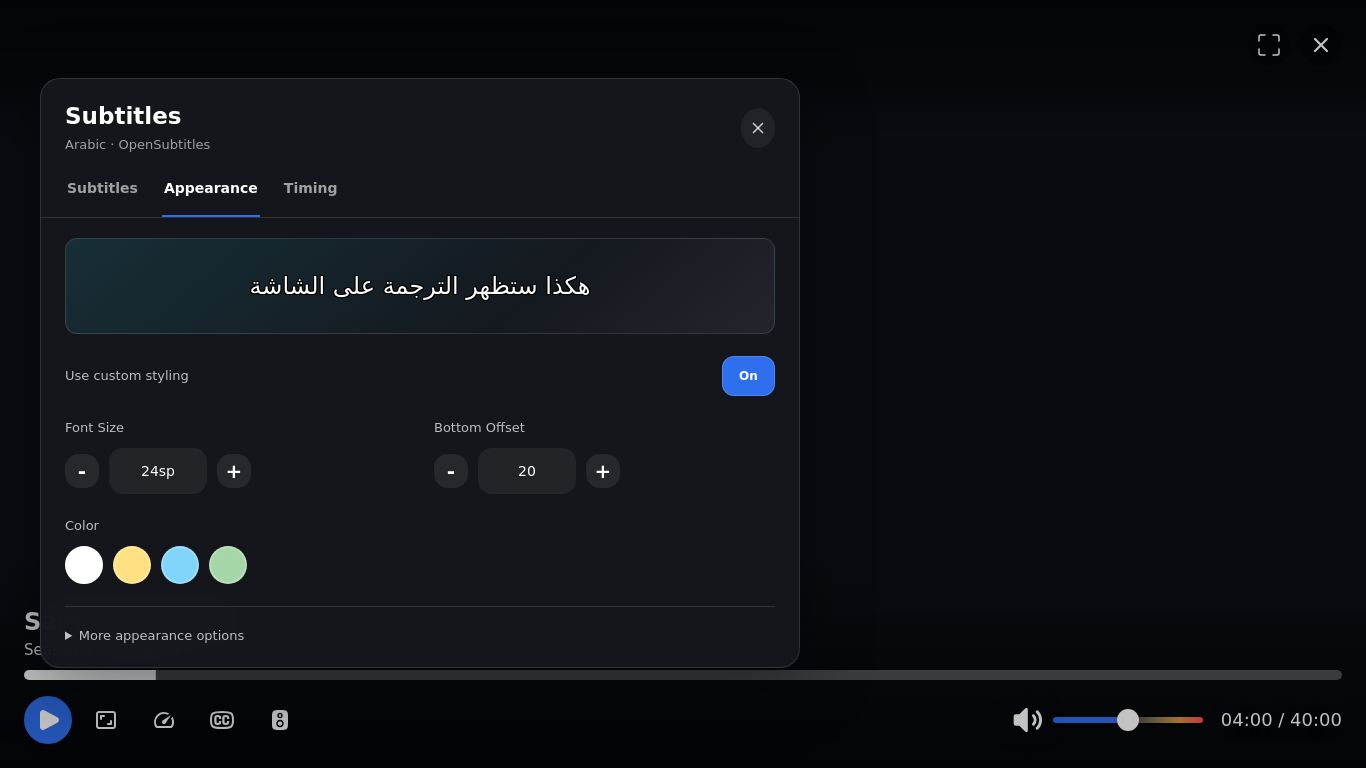
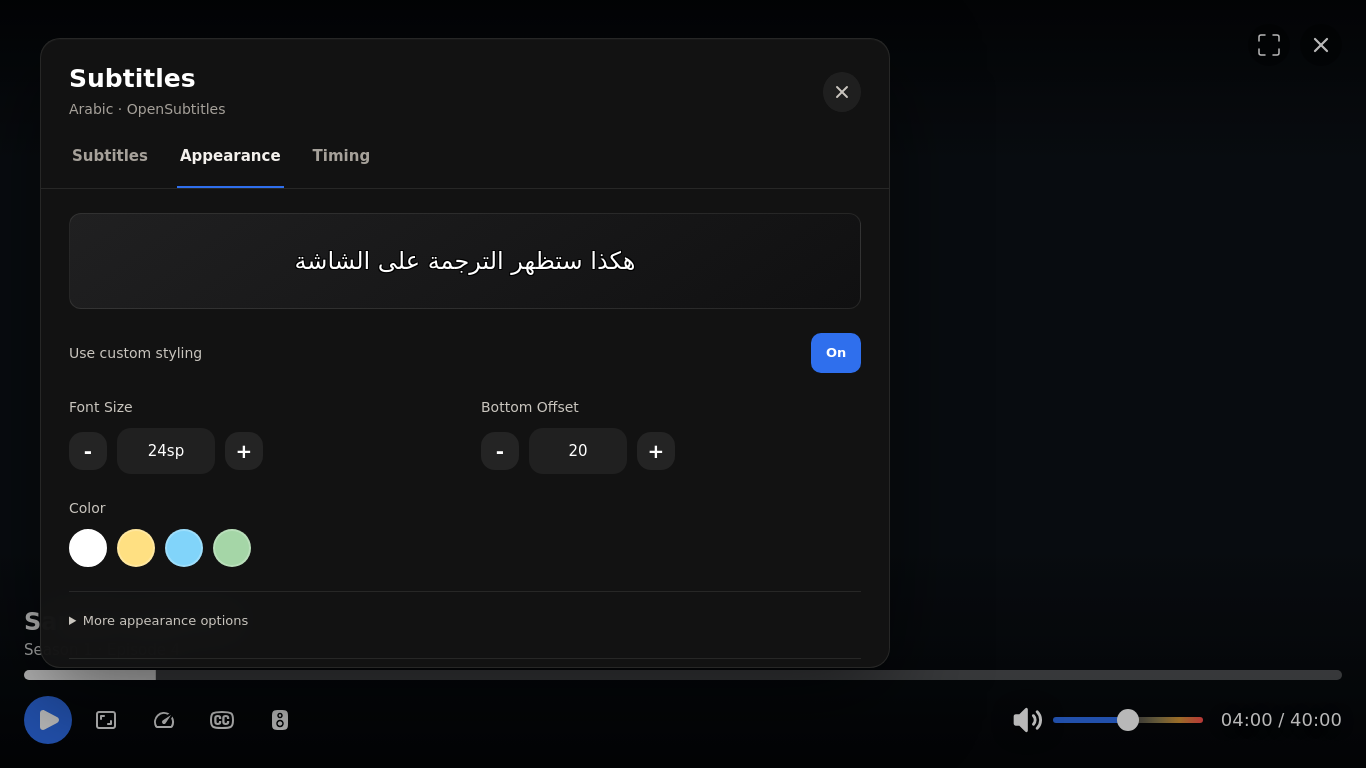
Enlarge the subtitle menu and apply Cinema dark styling

diff --git a/composeApp/src/desktopMain/resources/player-ui/controls.css b/composeApp/src/desktopMain/resources/player-ui/controls.css
@@ -2263,26 +2263,31 @@ button:disabled {
   white-space: nowrap;
 }
 
-/* Subtitle menu: selection first, with separate appearance and timing views. */
+/* Cinema dark subtitle menu, with separate appearance and timing views. */
 
 #subtitleModal {
+  --theme-text-primary: #f4f1ed;
+  --theme-text-secondary: #c9c5be;
+  --theme-text-muted: #a6a19a;
+  --theme-border-default: rgba(255, 248, 237, .09);
+  color: var(--theme-text-primary);
   padding: 24px clamp(16px, 3vw, 40px) 100px;
-  background: rgba(0, 0, 0, .24);
+  background: rgba(0, 0, 0, .28);
 }
 
 #subtitleModal .subtitle-rail-panel {
   display: flex;
   flex-direction: column;
-  width: min(760px, 100%) !important;
+  width: min(850px, 100%) !important;
   max-width: 100%;
-  height: min(590px, calc(100vh - 140px));
+  height: min(630px, calc(100vh - 136px));
   max-height: none;
   overflow: hidden;
   border: 1px solid var(--theme-border-default);
   border-radius: 20px;
-  background: color-mix(in srgb, var(--theme-surface-elevated) 96%, transparent);
-  box-shadow: 0 18px 70px rgba(0, 0, 0, .4);
-  backdrop-filter: blur(24px);
+  background: rgba(19, 19, 20, .95);
+  box-shadow: 0 28px 88px rgba(0, 0, 0, .5), inset 0 1px 0 rgba(255, 255, 255, .025);
+  backdrop-filter: blur(18px);
 }
 
 .subtitle-menu-header {
@@ -2291,7 +2296,7 @@ button:disabled {
   align-items: center;
   justify-content: space-between;
   gap: 20px;
-  padding: 22px 24px 18px;
+  padding: 24px 28px 20px;
 }
 
 .subtitle-menu-heading {
@@ -2300,8 +2305,8 @@ button:disabled {
 
 #subtitleModal .track-header {
   padding: 0;
-  font-size: 23px;
-  line-height: 30px;
+  font-size: 25px;
+  line-height: 32px;
   font-weight: 650;
 }
 
@@ -2309,42 +2314,42 @@ button:disabled {
   margin-top: 4px;
   overflow: hidden;
   color: var(--theme-text-muted);
-  font-size: 13px;
-  line-height: 20px;
+  font-size: 14px;
+  line-height: 21px;
   text-overflow: ellipsis;
   white-space: nowrap;
 }
 
 #subtitleModal .subtitle-close {
-  width: 34px;
-  height: 34px;
-  padding: 8px;
+  width: 38px;
+  height: 38px;
+  padding: 9px;
   border: 0;
   border-radius: 50%;
   background: rgba(255, 255, 255, .06);
 }
 
 .subtitle-close svg {
-  width: 18px;
-  height: 18px;
+  width: 20px;
+  height: 20px;
 }
 
 .subtitle-menu-tabs {
   display: flex;
   flex: 0 0 auto;
-  gap: 22px;
-  padding: 0 24px;
+  gap: 26px;
+  padding: 0 28px;
   border-bottom: 1px solid var(--theme-border-default);
 }
 
 .subtitle-menu-tab {
-  min-height: 44px;
-  padding: 0 2px 12px;
+  min-height: 48px;
+  padding: 0 3px 14px;
   border: 0;
   border-bottom: 2px solid transparent;
   background: transparent;
   color: var(--theme-text-muted);
-  font-size: 14px;
+  font-size: 15px;
   font-weight: 550;
   cursor: pointer;
 }
@@ -2369,30 +2374,30 @@ button:disabled {
   flex: 1 1 auto;
   width: 100%;
   min-height: 0;
-  grid-template-columns: 170px minmax(0, 1fr);
+  grid-template-columns: 184px minmax(0, 1fr);
   gap: 0;
   overflow: hidden;
 }
 
 #subtitleModal .subtitle-rail {
   gap: 0;
-  padding: 18px 12px 10px;
+  padding: 20px 14px 12px;
   overflow: hidden;
 }
 
 #subtitleModal .subtitle-language-rail {
   border-right: 1px solid var(--theme-border-default);
-  padding-left: 14px;
-  background: rgba(0, 0, 0, .08);
+  padding-left: 16px;
+  background: rgba(0, 0, 0, .12);
 }
 
 #subtitleModal .subtitle-options-rail {
-  padding-right: 16px;
+  padding-right: 20px;
 }
 
 #subtitleModal .subtitle-rail-title {
   padding: 0 10px;
-  font-size: 12px;
+  font-size: 13px;
   line-height: 22px;
   font-weight: 550;
   color: var(--theme-text-muted);
@@ -2407,12 +2412,13 @@ button:disabled {
 }
 
 .subtitle-details-toggle {
-  padding: 2px 8px;
+  min-height: 30px;
+  padding: 4px 10px;
   border: 0;
   border-radius: 5px;
   background: transparent;
   color: var(--theme-text-muted);
-  font-size: 11px;
+  font-size: 12px;
   cursor: pointer;
 }
 
@@ -2425,17 +2431,17 @@ button:disabled {
   flex: 1 1 auto;
   min-height: 0;
   max-height: none;
-  gap: 5px;
-  padding: 10px 0;
+  gap: 6px;
+  padding: 12px 0;
   overscroll-behavior: contain;
 }
 
 #subtitleModal .subtitle-language-row {
-  min-height: 42px;
-  padding: 10px;
+  min-height: 46px;
+  padding: 12px;
   border-radius: 9px;
-  font-size: 14px;
-  line-height: 20px;
+  font-size: 15px;
+  line-height: 22px;
 }
 
 #subtitleModal .subtitle-language-row.selected {
@@ -2449,18 +2455,18 @@ button:disabled {
   padding: 0;
   background: transparent;
   color: var(--theme-text-muted);
-  font-size: 11px;
-  line-height: 16px;
+  font-size: 12px;
+  line-height: 18px;
   font-weight: 400;
 }
 
 .subtitle-source-heading {
-  padding: 10px 10px 3px;
+  padding: 14px 14px 4px;
   color: var(--theme-text-muted);
-  font-size: 11px;
-  line-height: 17px;
+  font-size: 12px;
+  line-height: 18px;
   font-weight: 600;
-  letter-spacing: .05em;
+  letter-spacing: .08em;
   text-transform: uppercase;
 }
 
@@ -2469,14 +2475,15 @@ button:disabled {
 }
 
 #subtitleModal .subtitle-option-row {
-  min-height: 64px !important;
-  padding: 10px 12px !important;
+  min-height: 72px !important;
+  padding: 12px 14px !important;
   border-radius: 10px;
 }
 
 #subtitleModal .subtitle-option-row.selected {
-  border-color: color-mix(in srgb, var(--theme-accent) 35%, transparent);
+  border-color: color-mix(in srgb, var(--theme-accent) 28%, transparent);
   background: color-mix(in srgb, var(--theme-accent) 12%, transparent);
+  box-shadow: inset 3px 0 0 var(--theme-accent);
   color: var(--theme-text-primary);
   font-weight: 500;
 }
@@ -2486,8 +2493,8 @@ button:disabled {
 }
 
 #subtitleModal .subtitle-option-title {
-  font-size: 15px;
-  line-height: 21px;
+  font-size: 16px;
+  line-height: 23px;
   overflow-wrap: anywhere;
 }
 
@@ -2498,8 +2505,8 @@ button:disabled {
   border-radius: 0;
   background: transparent;
   color: var(--theme-text-muted);
-  font-size: 11px;
-  line-height: 16px;
+  font-size: 12px;
+  line-height: 18px;
 }
 
 #subtitleModal .subtitle-option-row.selected .track-check {
@@ -2507,8 +2514,8 @@ button:disabled {
 }
 
 #subtitleModal .track-check {
-  width: 19px;
-  height: 19px;
+  width: 20px;
+  height: 20px;
 }
 
 #addonSubtitleList.show-release-details .subtitle-option-metadata,
@@ -2519,15 +2526,15 @@ button:disabled {
   overflow: hidden;
   white-space: normal;
   overflow-wrap: anywhere;
-  font-size: 11px;
-  line-height: 17px;
+  font-size: 12px;
+  line-height: 18px;
   color: var(--theme-text-muted);
 }
 
 #subtitleModal .subtitle-tools-panel {
   flex: 1 1 auto;
   min-height: 0;
-  padding: 20px 24px 24px;
+  padding: 24px 28px 28px;
   overflow: auto;
   overscroll-behavior: contain;
   scrollbar-width: thin;
@@ -2542,7 +2549,7 @@ button:disabled {
 #subtitleModal .style-card {
   display: grid;
   grid-template-columns: repeat(2, minmax(0, 1fr));
-  gap: 22px 28px;
+  gap: 24px 32px;
 }
 
 #subtitleModal .style-section {
@@ -2558,25 +2565,50 @@ button:disabled {
 
 #subtitleModal .style-label {
   color: var(--theme-text-secondary);
-  font-size: 13px;
-  line-height: 20px;
+  font-size: 14px;
+  line-height: 21px;
 }
 
 #subtitleModal .style-control-row {
   gap: 8px;
 }
 
-#subtitleModal .panel-button {
-  font-size: 12px;
+#subtitleModal .panel-button:not(.subtitle-close) {
+  min-height: 40px;
+  padding: 10px 14px;
+  border: 1px solid rgba(255, 248, 237, .1);
+  border-radius: 10px;
+  background: rgba(255, 248, 237, .06);
+  color: var(--theme-text-primary);
+  font-size: 13px;
+}
+
+#subtitleModal .panel-button.primary {
+  border-color: transparent;
+  background: var(--theme-accent);
+  color: var(--theme-on-accent);
+}
+
+#subtitleModal .panel-button.primary:hover:not(:disabled) {
+  background: var(--theme-accent-strong);
+}
+
+#subtitleModal .track-row:hover:not(:disabled) {
+  background: rgba(255, 248, 237, .045);
+}
+
+#subtitleModal .subtitle-language-row.selected:hover:not(:disabled),
+#subtitleModal .subtitle-option-row.selected:hover:not(:disabled) {
+  background: color-mix(in srgb, var(--theme-accent) 17%, transparent);
 }
 
 #subtitleModal .round-step {
-  width: 34px;
-  height: 34px;
+  width: 38px;
+  height: 38px;
 }
 
 #subtitleModal .stepper-value {
-  font-size: 14px;
+  font-size: 15px;
 }
 
 #subtitleModal .style-section:has(#subtitleStyleReset) {
@@ -2594,7 +2626,7 @@ button:disabled {
   padding: 20px;
   border: 1px solid var(--theme-border-default);
   border-radius: 12px;
-  background: linear-gradient(140deg, #172e37, #14191f 65%, #25242c);
+  background: linear-gradient(145deg, #202021, #101011);
   text-align: center;
 }
 
@@ -2646,15 +2678,15 @@ button:disabled {
 .subtitle-help {
   margin: 0;
   color: var(--theme-text-muted);
-  font-size: 12px;
-  line-height: 19px;
+  font-size: 13px;
+  line-height: 21px;
 }
 
 .subtitle-sync-status {
   max-width: 100%;
   color: var(--theme-text-secondary);
-  font-size: 12px;
-  line-height: 19px;
+  font-size: 13px;
+  line-height: 21px;
   overflow-wrap: anywhere;
 }
 

diff --git a/docs/subtitle-menu.md b/docs/subtitle-menu.md
@@ -1,6 +1,8 @@
 # Desktop subtitle menu
 
-The Windows native player opens subtitle selection in a compact panel with three tabs:
+The Windows native player opens subtitle selection in a Cinema dark panel with three tabs. The panel is 850 px wide (up from 760 px), with a 630 px maximum height that adapts to the window. A nearly opaque charcoal surface, warm white text, softer dividers and roomier rows keep it readable over video. Selections use the current theme accent.
+
+The three tabs are:
 
 - **Subtitles:** language list, separate built-in and add-on groups, and the current selection. Provider names are prominent in add-on rows. **Details** reveals release names; hovering a row also shows its full information.
 - **Appearance:** a sample subtitle preview, font size, bottom offset and color. Bold, opacity and outline controls sit under **More appearance options**.
